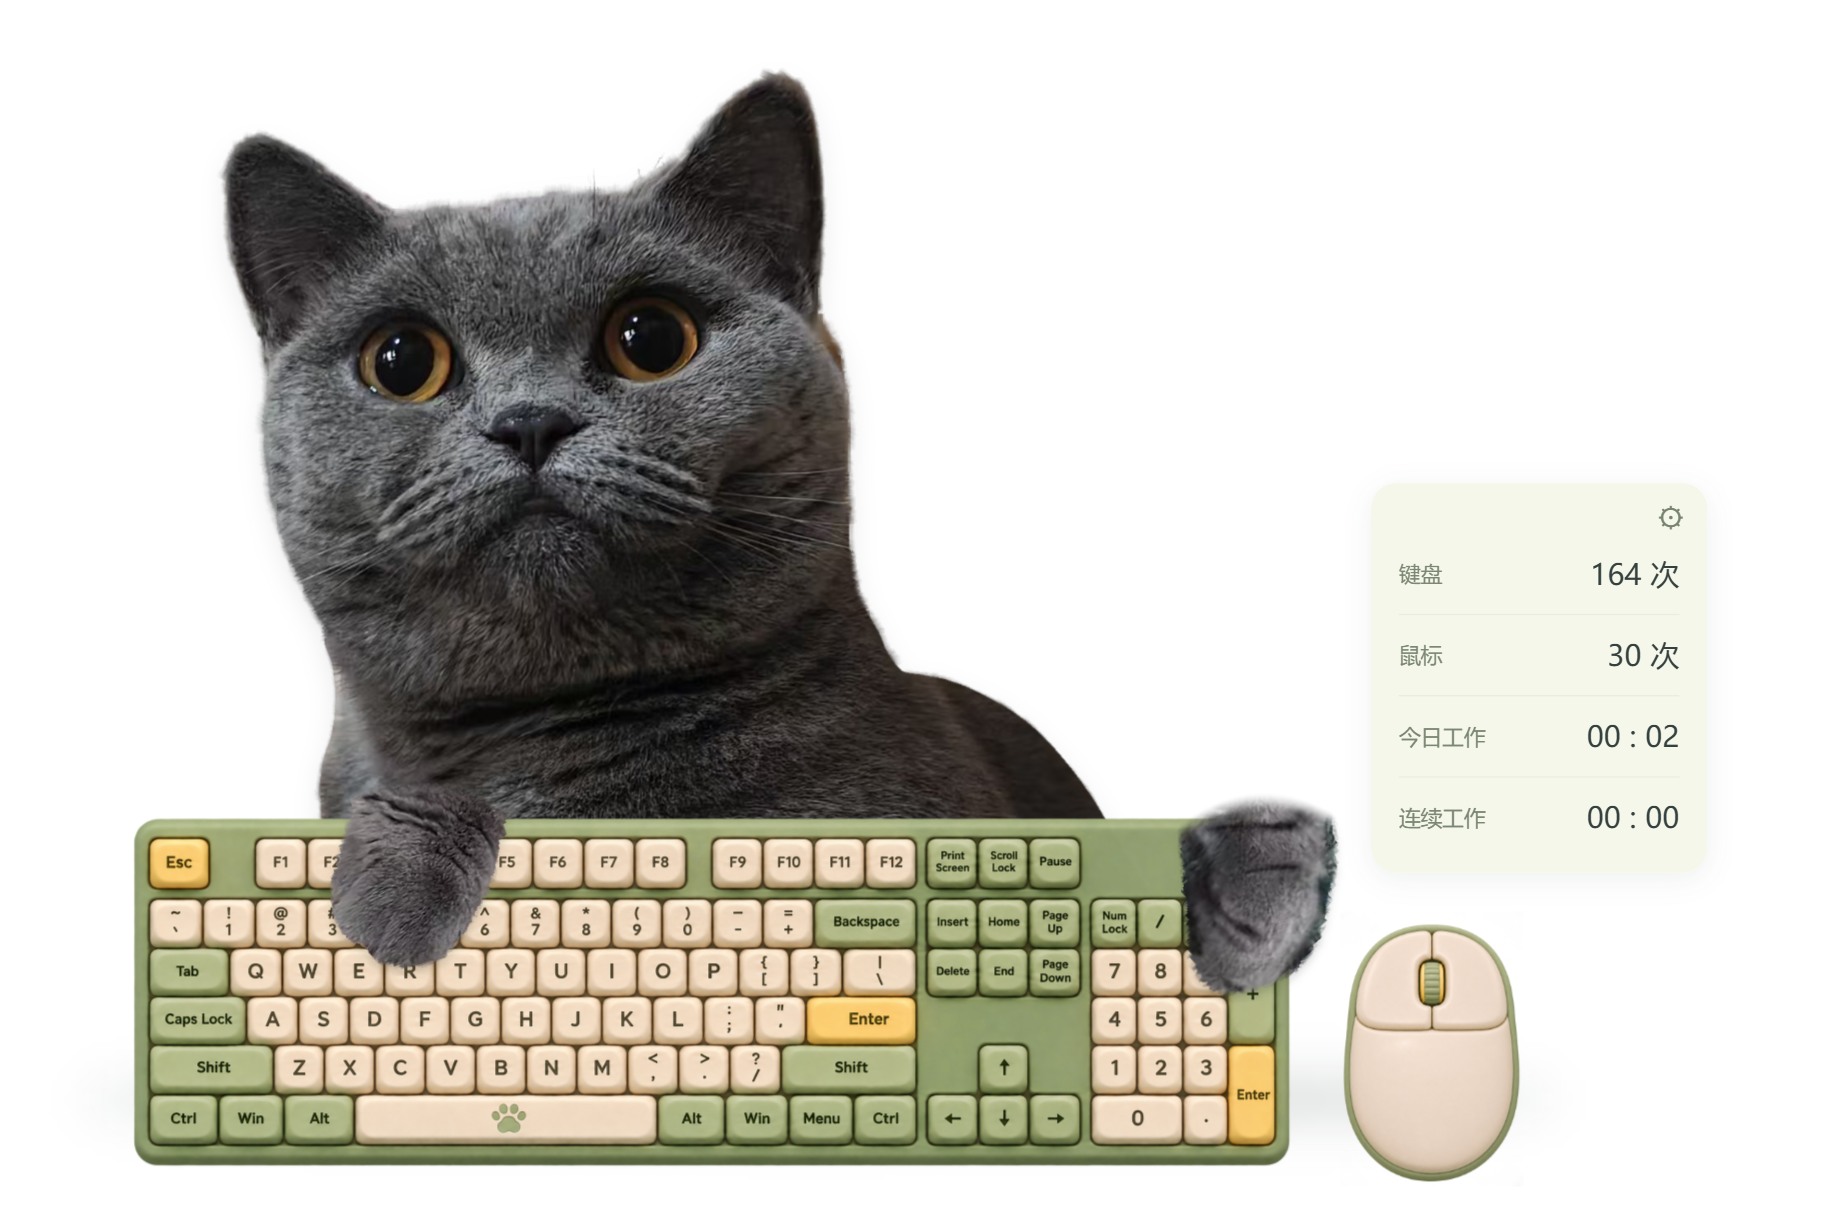
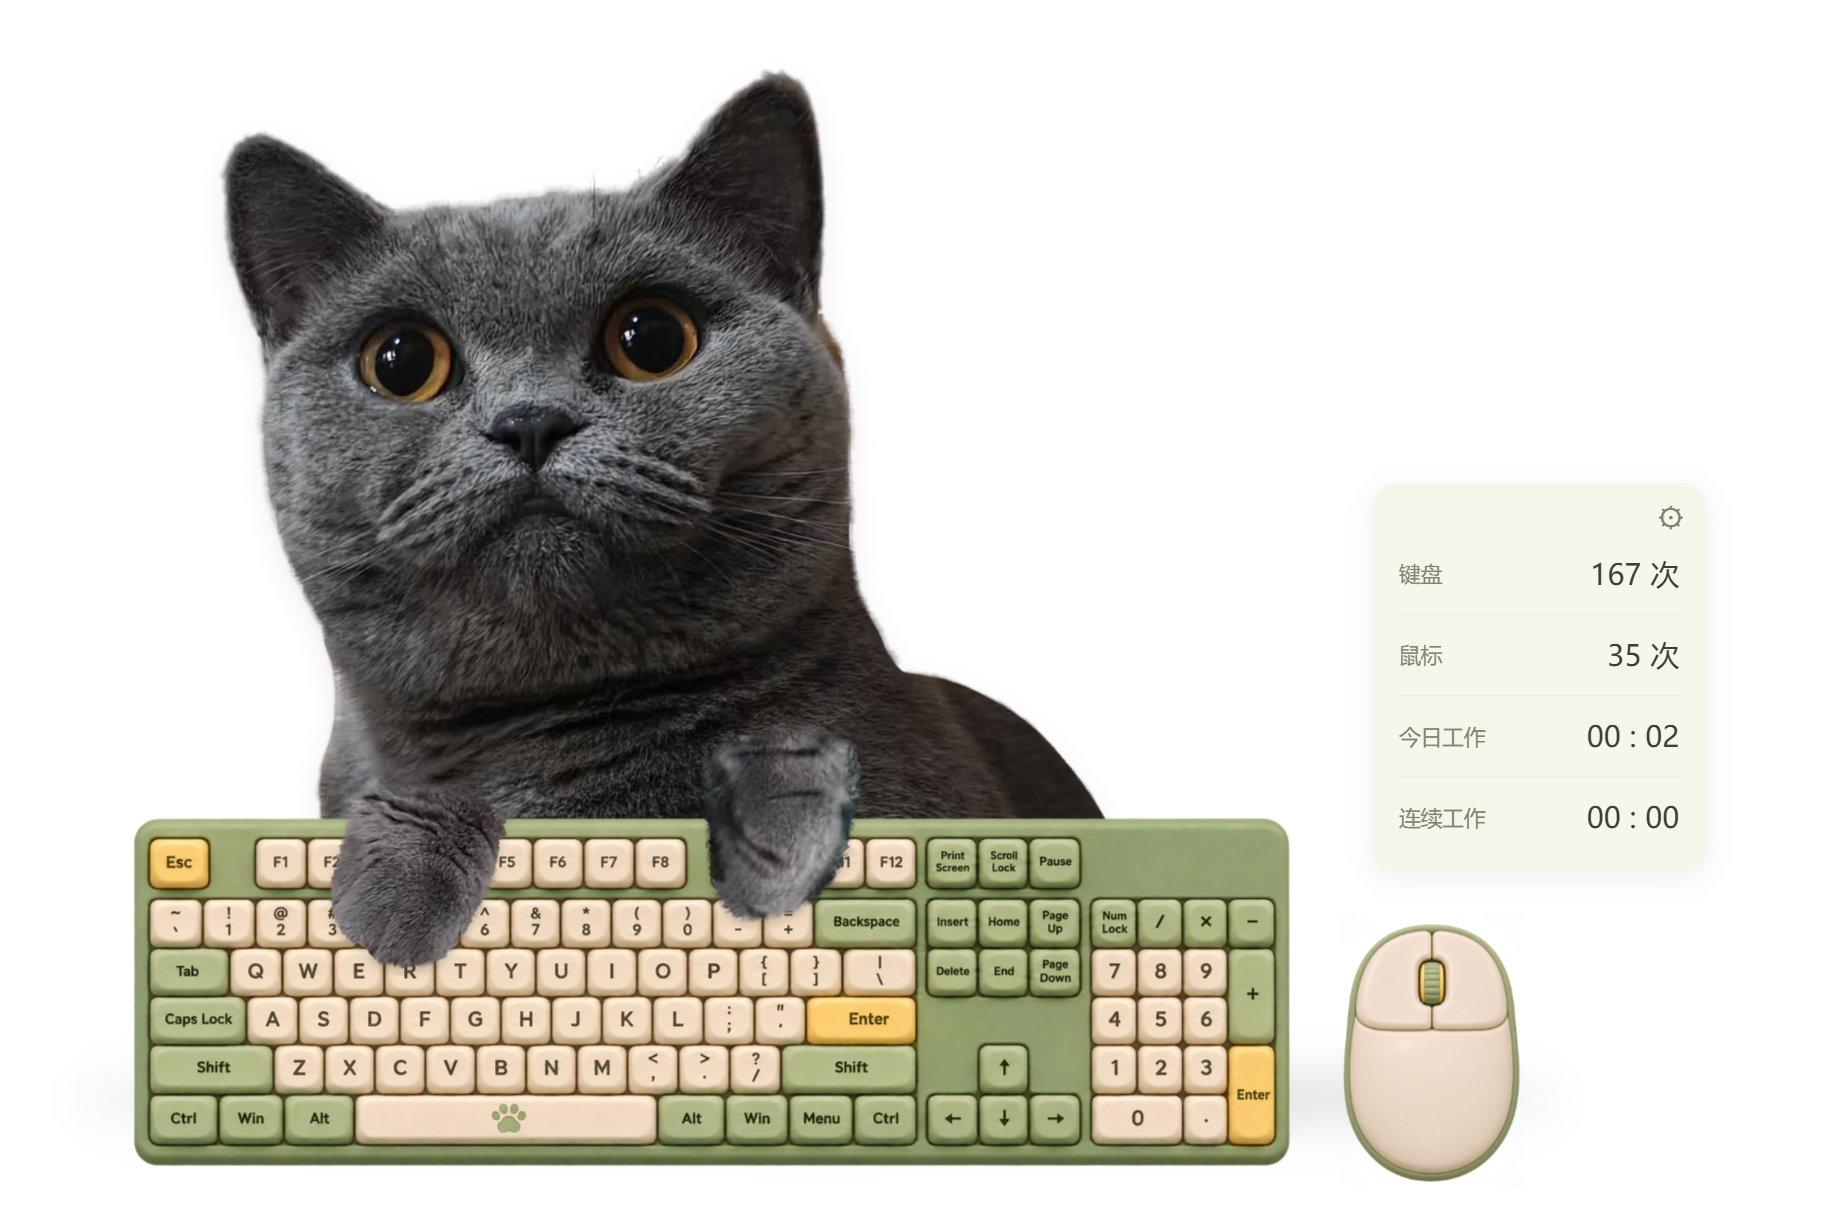
调整猫爪初始加号落点与脸旁话框位置

Changed region(s): [[0.6236, 0.6546, 0.7484, 0.8417], [0.3742, 0.5923, 0.4677, 0.7793]]

diff --git a/src/renderer/src.tsx b/src/renderer/src.tsx
@@ -172,9 +172,9 @@ function App() {
     r = latest(false);
   const onMouse = buttons.length > 0;
   // Side flags refer to the screen. The front-facing cat's right paw is on
-  // screen-left (R), and its left paw is on screen-right (numpad +).
+  // screen-left (R), and its left paw is on screen-right (main keyboard +/=).
   const restR = keys.find((key) => key.code === 19)!;
-  const restPlus = keys.find((key) => key.code === 78)!;
+  const restPlus = keys.find((key) => key.code === 13)!;
   const pawStyle = (k: typeof l, right = false) => {
     const rest = keySurface(right ? restPlus : restR);
     const target = keySurface(k ?? (right ? restPlus : restR));

diff --git a/src/renderer/style.css b/src/renderer/style.css
@@ -236,21 +236,22 @@ body {
 .speech:after {
   content: "";
   position: absolute;
-  bottom: -12px;
-  left: 40px;
-  border-top: 13px solid #fffdf0;
-  border-right: 16px solid transparent;
+  top: 28px;
+  left: -12px;
+  border-right: 13px solid #fffdf0;
+  border-top: 10px solid transparent;
+  border-bottom: 10px solid transparent;
 }
 .pet-speech {
-  left: 70px;
+  left: 700px;
   top: 330px;
   max-width: 320px;
   font-size: 17px;
   line-height: 1.7;
 }
 .rest-speech {
-  left: 800px;
-  top: 180px;
+  left: 700px;
+  top: 200px;
   max-width: 350px;
 }
 aside {
